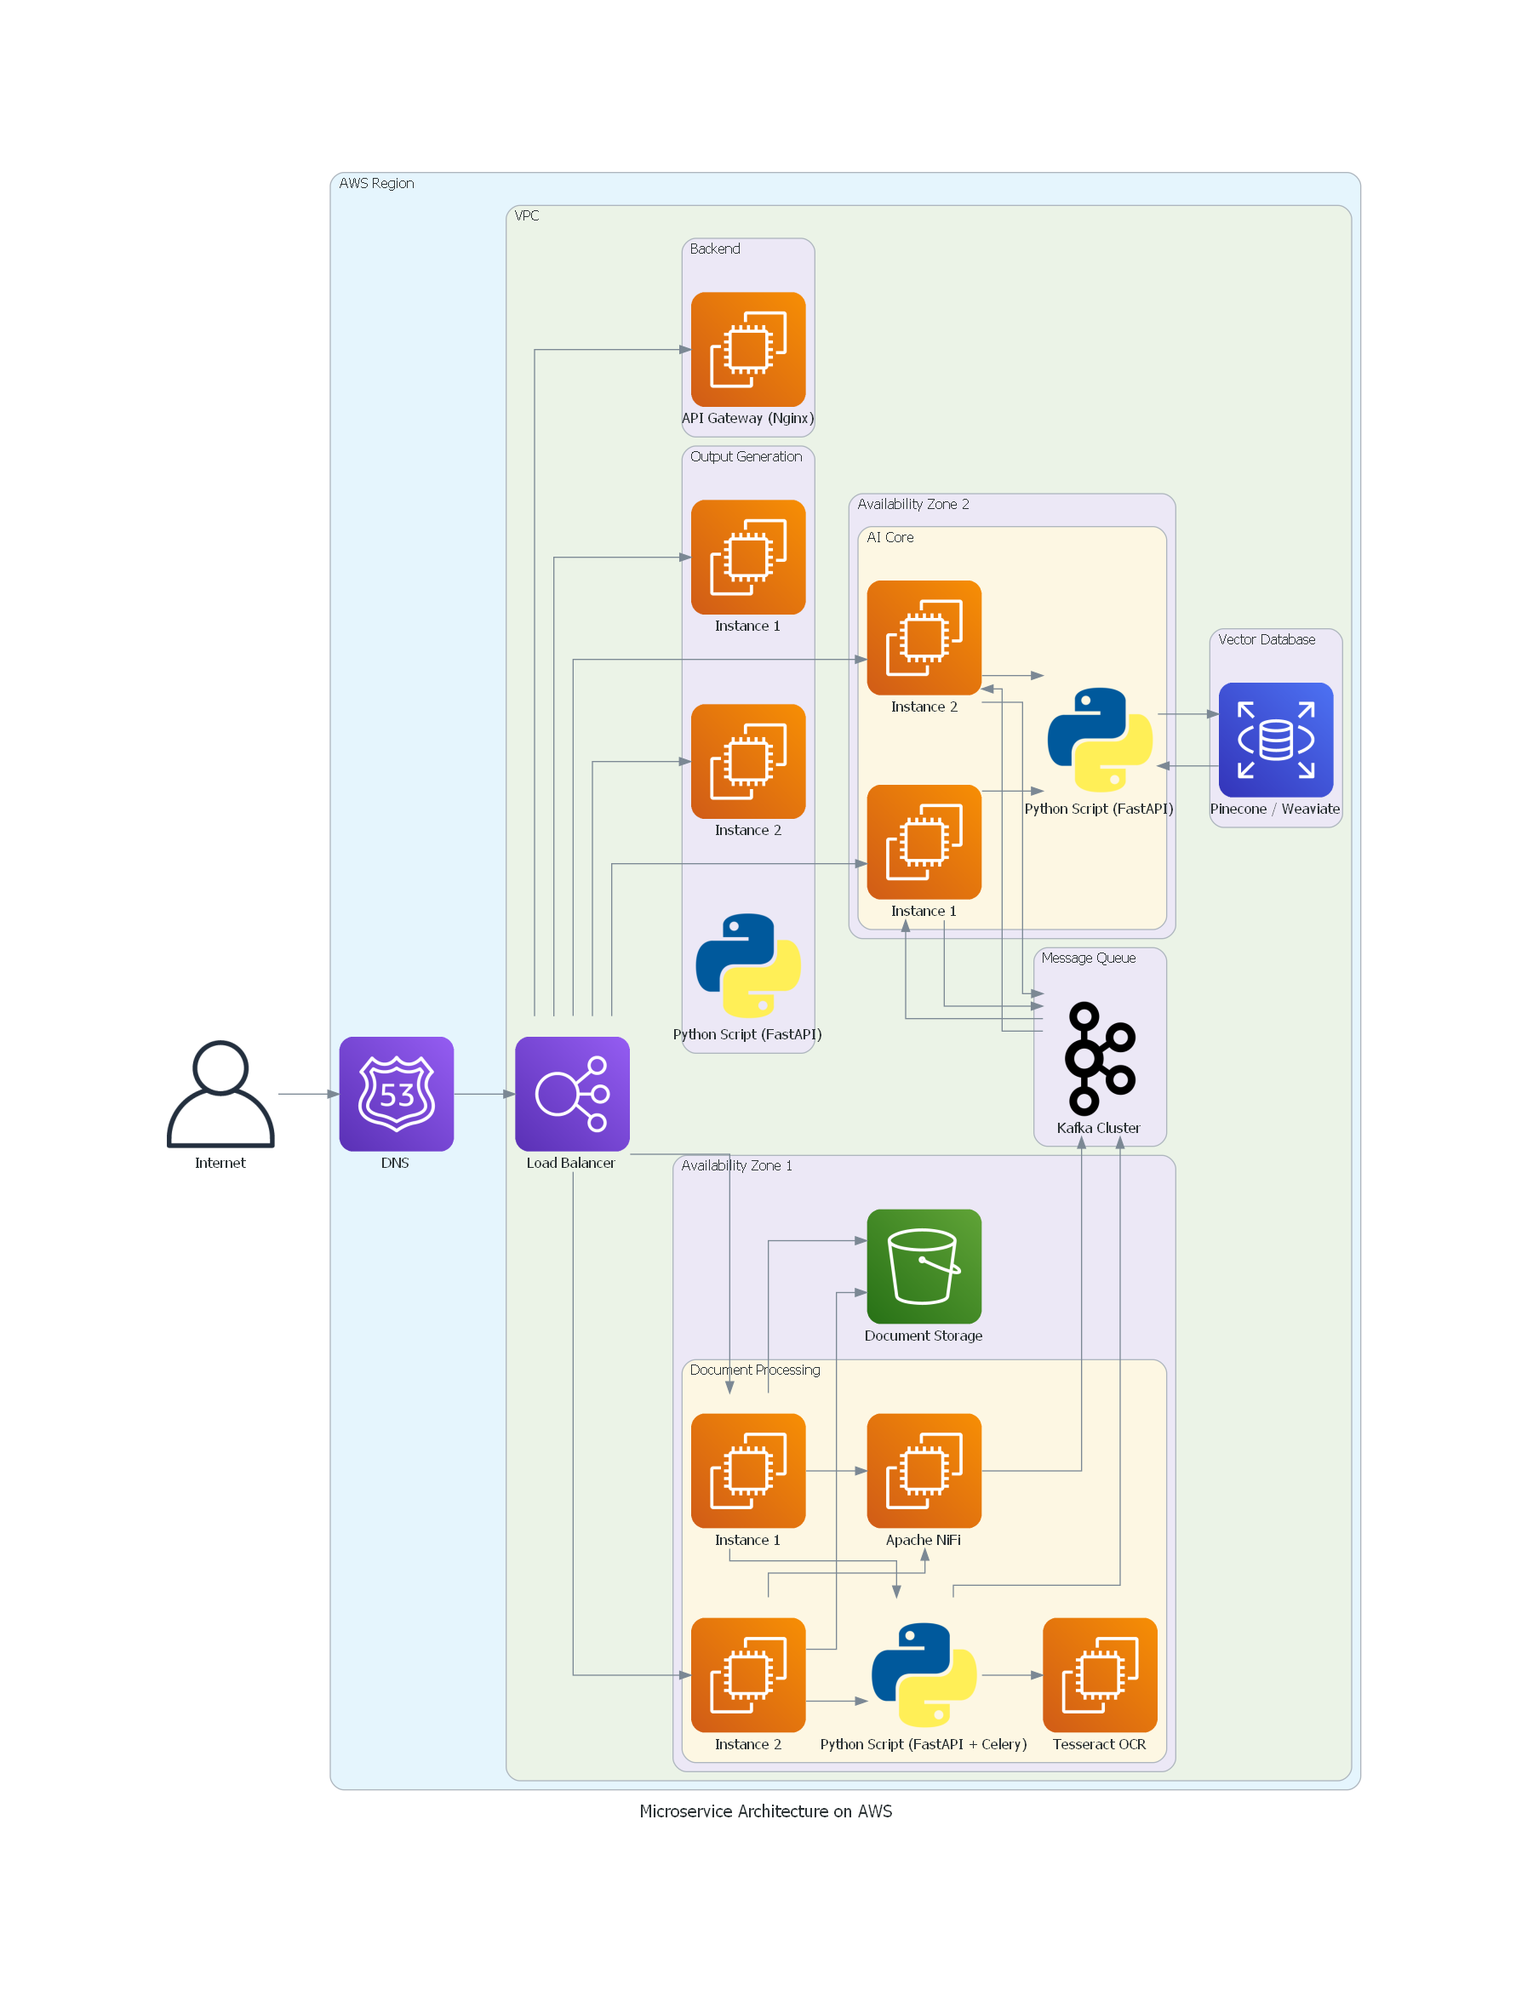
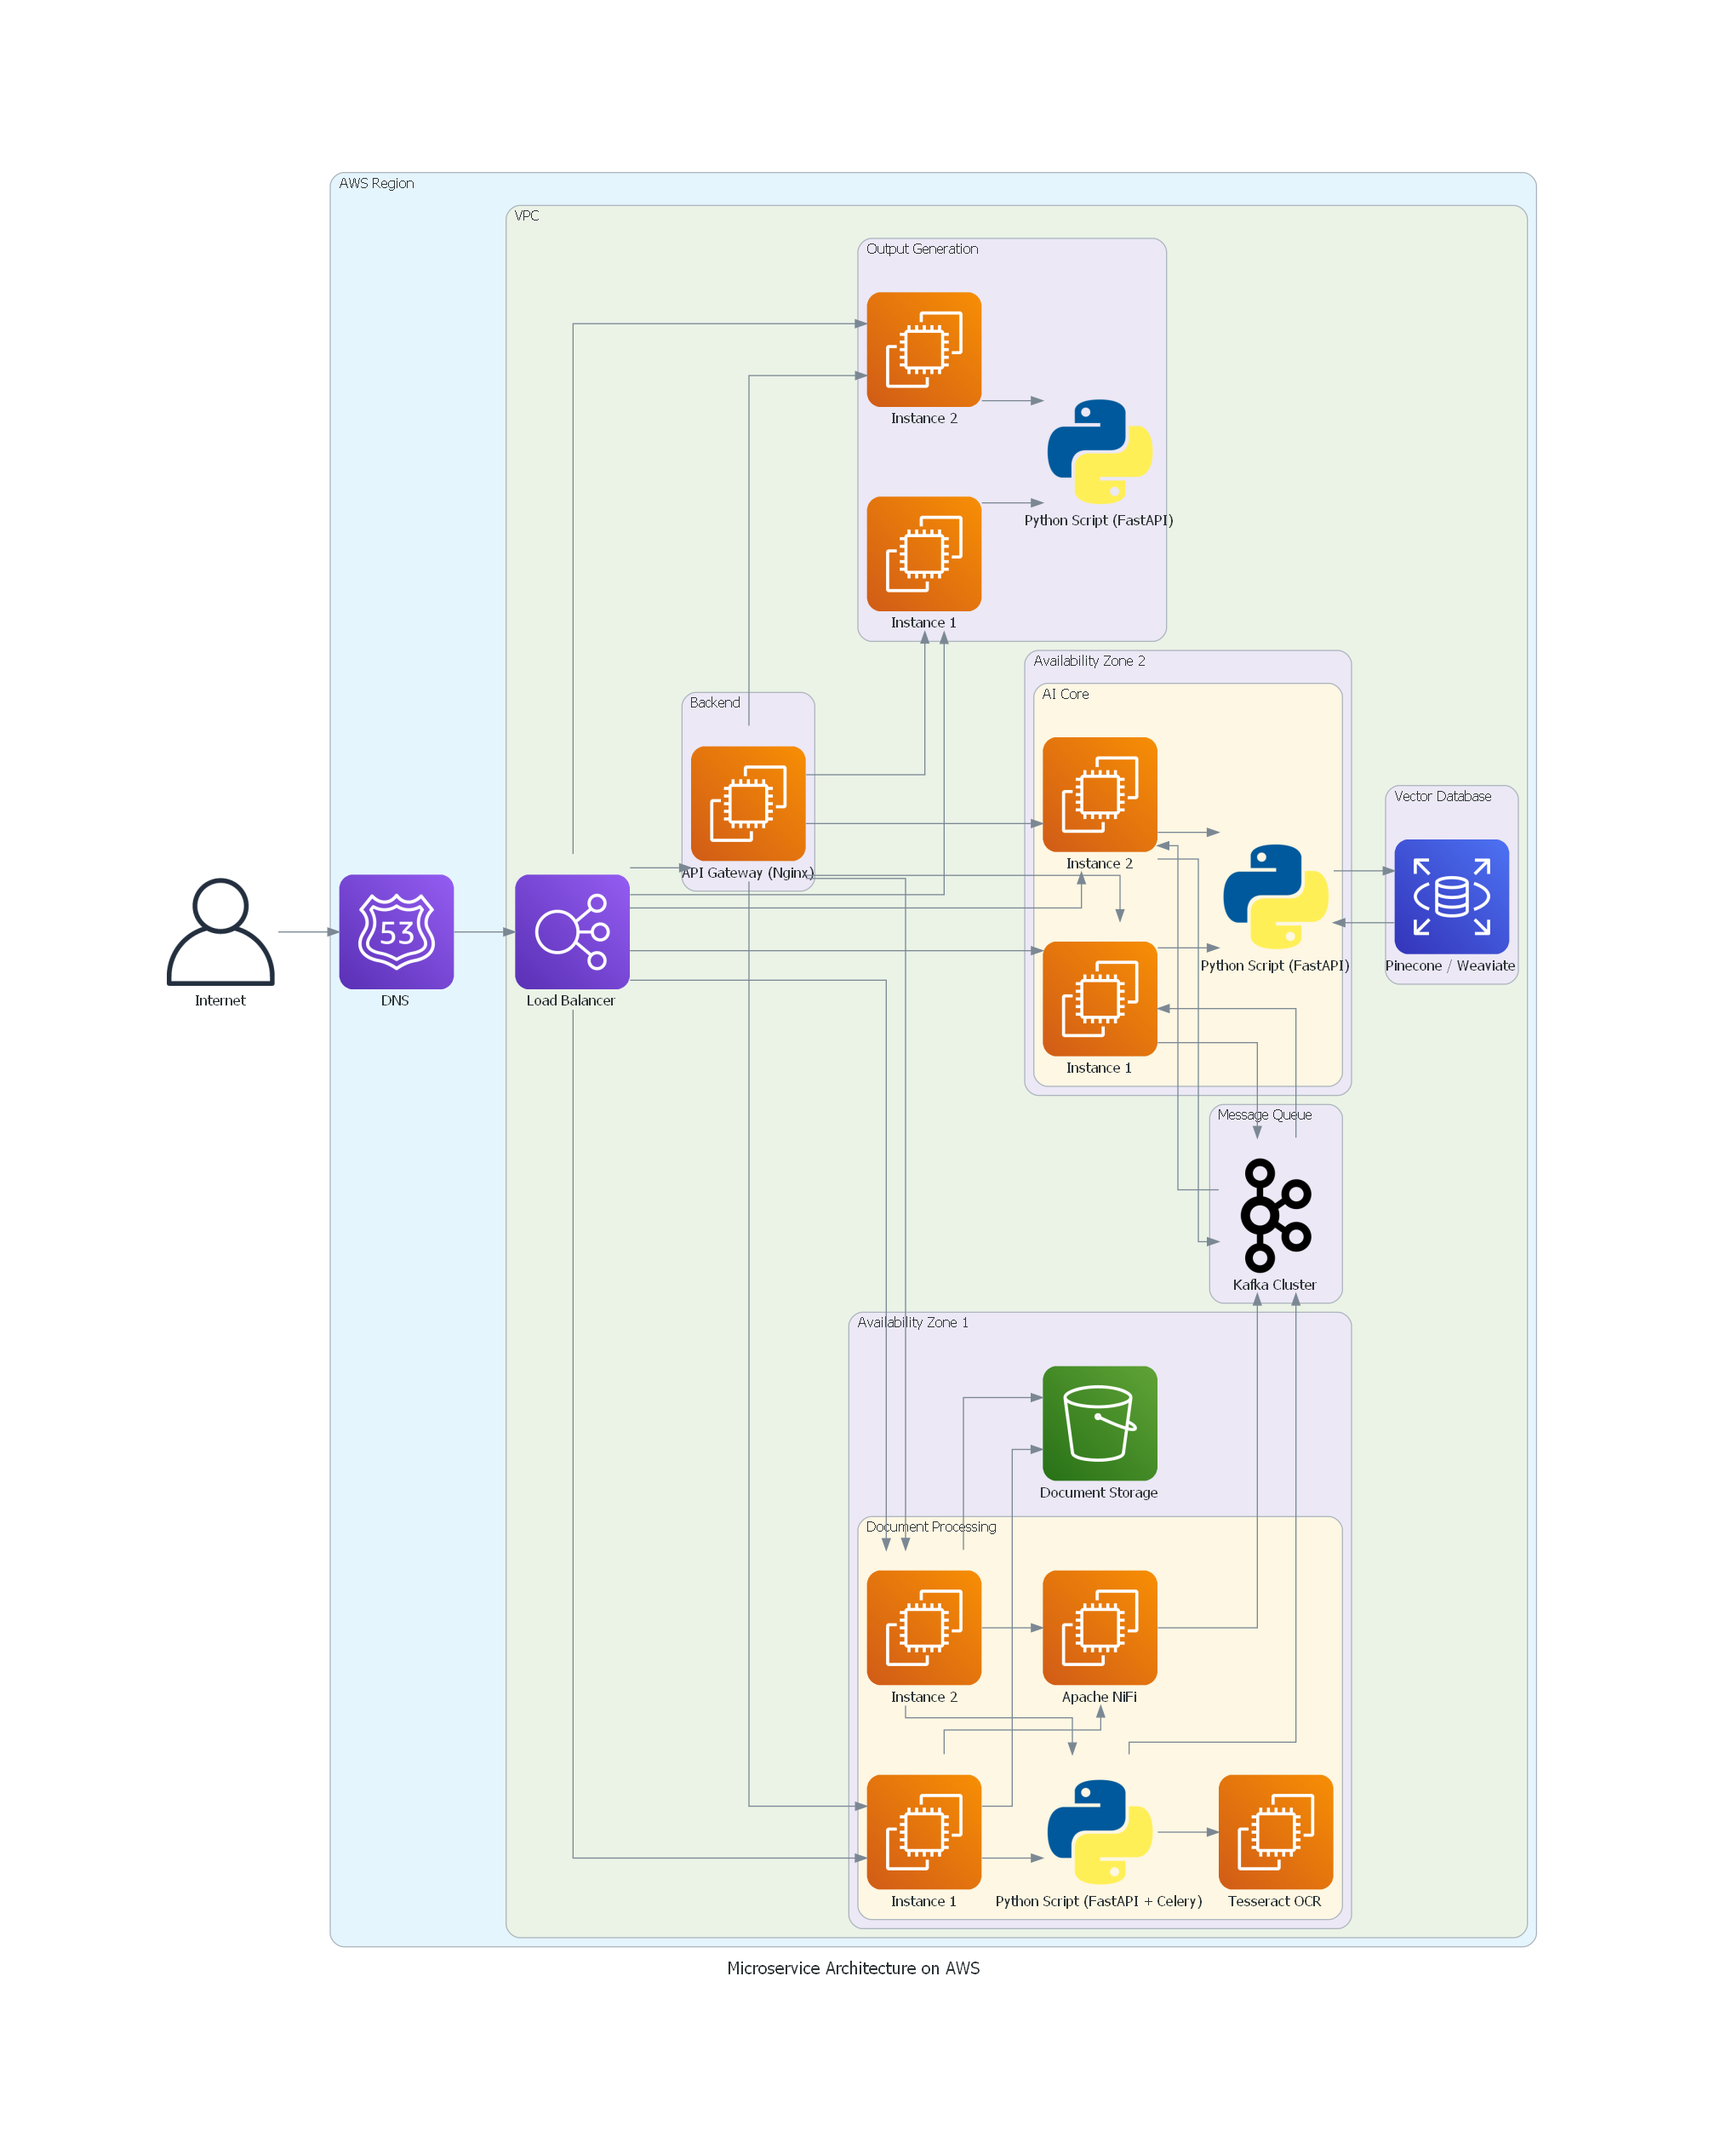
up

Changed region(s): [[0.1244, 0.0624, 0.9017, 0.9363], [0.0933, 0.4057, 0.1555, 0.4681]]

diff --git a/AI Document Processing System-TPBank/03.Gemini-Thinking/04.diagrams.py b/AI Document Processing System-TPBank/03.Gemini-Thinking/04.diagrams.py
@@ -1,0 +1,75 @@
+from diagrams import Diagram, Cluster
+from diagrams.aws.compute import EC2
+from diagrams.aws.database import RDS
+from diagrams.aws.network import ELB, Route53
+from diagrams.aws.storage import S3
+from diagrams.onprem.client import User
+from diagrams.onprem.queue import Kafka
+from diagrams.programming.language import Python
+
+with Diagram("Microservice Architecture on AWS", show=False):
+    internet = User("Internet")
+
+    with Cluster("AWS Region"):
+        route53 = Route53("DNS")
+
+        with Cluster("VPC"):
+            elb = ELB("Load Balancer")
+
+            with Cluster("Availability Zone 1"):
+                with Cluster("Document Processing"):
+                    doc_process_instances = [EC2("Instance 1"), EC2("Instance 2")]
+                    doc_process_python = Python("Python Script (FastAPI + Celery)")
+                    tesseract = EC2("Tesseract OCR")
+                    nifi = EC2("Apache NiFi")
+                s3_doc = S3("Document Storage")
+
+            with Cluster("Availability Zone 2"):
+                with Cluster("AI Core"):
+                    ai_core_instances = [EC2("Instance 1"), EC2("Instance 2")]
+                    ai_core_python = Python("Python Script (FastAPI)")
+
+            with Cluster("Vector Database"):
+                vector_db = RDS("Pinecone / Weaviate")
+
+            with Cluster("Message Queue"):
+                kafka = Kafka("Kafka Cluster")
+
+            with Cluster("Output Generation"):
+                output_gen_instances = [EC2("Instance 1"), EC2("Instance 2")]
+                output_gen_python = Python("Python Script (FastAPI)")
+
+            with Cluster("Backend"):
+              api_gateway = EC2("API Gateway (Nginx)")
+
+    internet >> route53
+    route53 >> elb
+
+    elb >> doc_process_instances
+    elb >> ai_core_instances
+    elb >> output_gen_instances
+    elb >> api_gateway # Thêm API Gateway vào Load Balancer
+
+    doc_process_instances >> s3_doc
+    doc_process_instances >> doc_process_python
+    doc_process_instances >> nifi #Document process sử dụng nifi
+    doc_process_python >> tesseract
+
+    doc_process_python >> kafka
+    nifi >> kafka
+
+    kafka >> ai_core_instances
+
+    ai_core_instances >> ai_core_python
+    ai_core_python >> vector_db
+
+    vector_db >> ai_core_python #AI core đọc từ vector DB
+    ai_core_instances >> kafka #AI core publish message queue
+    # ai_core_instances >> output_gen_instances
+
+    output_gen_instances >> output_gen_python
+
+    # Kết nối API Gateway tới các microservice
+    api_gateway >> doc_process_instances
+    api_gateway >> ai_core_instances
+    api_gateway >> output_gen_instances
